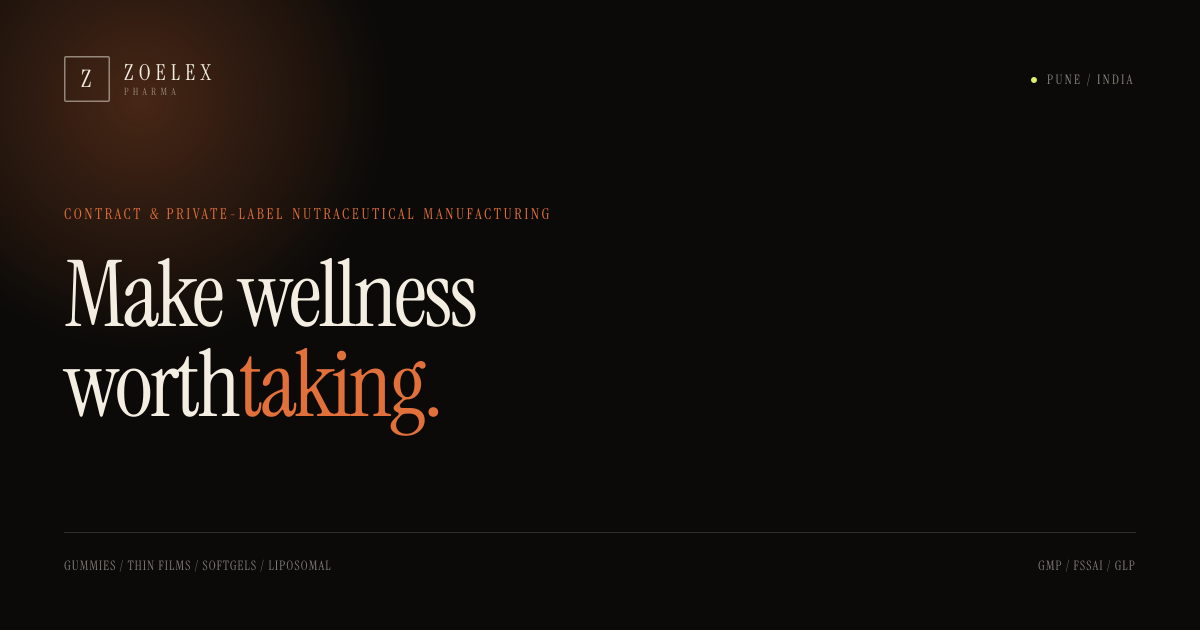
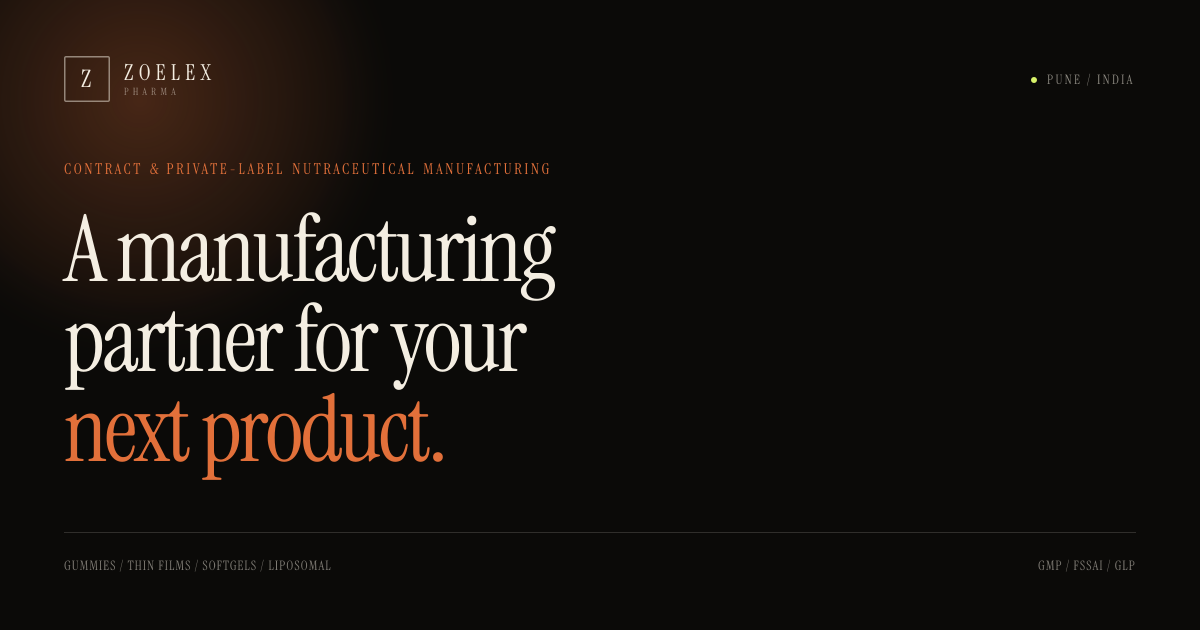
Replace tagline with A manufacturing partner for your next product

diff --git a/components/sections/home-hero.tsx b/components/sections/home-hero.tsx
@@ -65,14 +65,14 @@ export function HomeHero() {
               <span className="hidden text-bone/35 sm:inline">Pune, India</span>
             </motion.p>
 
-            <h1 className="display display-tight mt-6 text-[clamp(3rem,6.4vw,5.6rem)] text-bone">
+            <h1 className="display display-tight mt-6 text-[clamp(2.7rem,5.6vw,5rem)] text-bone">
               <MaskLines
                 delay={0.15}
                 lines={[
-                  <>Make</>,
-                  <>wellness</>,
+                  <>A manufacturing</>,
+                  <>partner for your</>,
                   <>
-                    worth <span className="text-ember">taking.</span>
+                    <span className="text-ember">next product.</span>
                   </>,
                 ]}
               />

diff --git a/components/layout/footer.tsx b/components/layout/footer.tsx
@@ -21,10 +21,12 @@ export default function Footer() {
         <div className="grid gap-12 lg:grid-cols-12 lg:items-end">
           <div className="lg:col-span-8">
             <p className="mono-label text-ember">Start a conversation</p>
-            <h2 className="display mt-5 text-[clamp(3rem,8vw,7rem)] leading-[0.86]">
-              Let&apos;s make something
+            <h2 className="display mt-5 text-[clamp(2.6rem,8vw,7rem)] leading-[0.86]">
+              A manufacturing
               <br />
-              <span className="text-ember">worth taking.</span>
+              partner for your
+              <br />
+              <span className="text-ember">next product.</span>
             </h2>
           </div>
 

diff --git a/lib/site.ts b/lib/site.ts
@@ -1,7 +1,7 @@
 export const site = {
   name: "Zoelex Pharma",
   shortName: "Zoelex",
-  tagline: "Nutraceutical manufacturing, reimagined.",
+  tagline: "A manufacturing partner for your next product.",
   description:
     "Zoelex Pharma is a Pune-based contract and private-label manufacturer of gummies, oral thin films, softgels and liposomal formulations for nutraceutical brands.",
   url: "https://zoelexpharma.com",

diff --git a/REDESIGN-PLAN.md b/REDESIGN-PLAN.md
@@ -136,7 +136,7 @@ The site should feel like a high-end lab / fashion house hybrid: near-black surf
 - Scroll progress line stays ember.
 
 **`components/layout/footer.tsx`**
-- Dark. Big CTA block: “Let's make something worth taking.” + email/phone + buttons.
+- Dark. Big CTA block: “A manufacturing partner for your next product.” + email/phone + buttons.
 - Add a format marquee strip.
 - Grid: logo + address, Explore, More, Contact, hours, WhatsApp.
 - Huge outlined `ZOELEX` wordmark at the bottom (decorative, `aria-hidden`).
@@ -183,7 +183,7 @@ The site should feel like a high-end lab / fashion house hybrid: near-black surf
 
 1. **Hero** (`components/sections/home-hero.tsx` — rewrite)
    - Dark, full viewport (min 92svh).
-   - Left: mono location label, huge “Make wellness worth taking.”, one sentence, primary + secondary CTA, scroll cue.
+   - Left: mono location label, huge “A manufacturing partner for your next product.”, one sentence, primary + secondary CTA, scroll cue.
    - Right: **FormatSpecimen** — auto-cycling image card (4 formats), big index, format name, short line, tick controls, corner crosshairs, subtle pointer tilt. This is the signature.
    - Bottom: spec rail with 4 real facts: Four formats · GMP/FSSAI/GLP · 24–48h response · Pune, India.
    - Pointer spotlight (desktop, fine pointer only).
